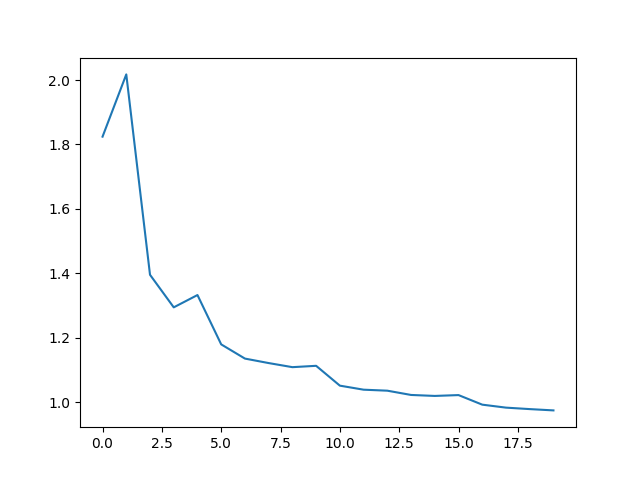
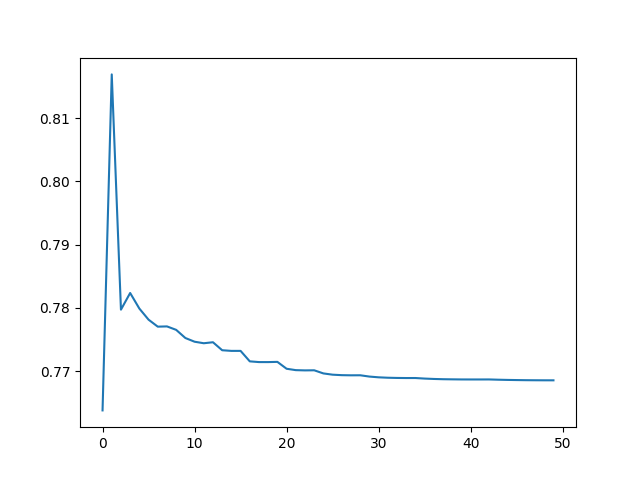
Get 92.5% accuracy on mnist dataset with logistic regression

diff --git a/mnist/index.js b/mnist/index.js
@@ -25,8 +25,8 @@ const { features, labels } = loadData();
 
 const regression = new MultinomialLogisticRegression(features, labels, {
   learningRate: 1,
-  iterations: 20,
-  batchSize: 100
+  iterations: 50,
+  batchSize: 500
 });
 
 regression.train();
